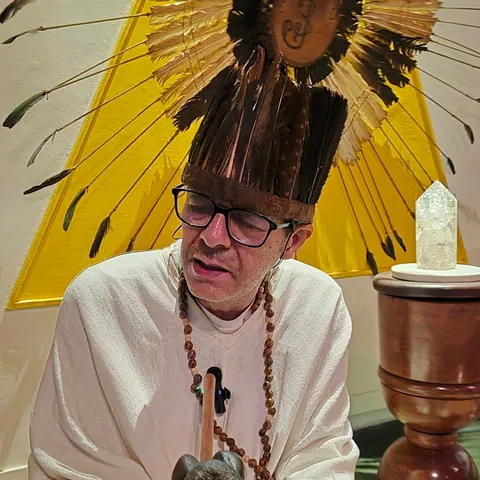
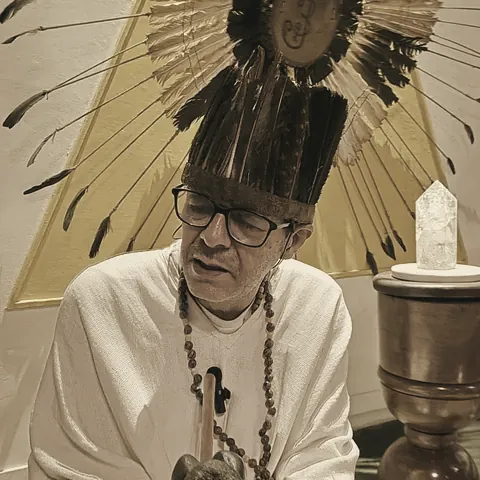
Linktree: mesmo tom quente (duotone) em todas as imagens para dar unidade visual
Claude-Session: https://claude.ai/code/session_01WX8AowRTBoGT7ARiFYNYSN

diff --git a/links/index.html b/links/index.html
@@ -49,9 +49,8 @@ h1{font:500 34px/1.1 var(--serif);letter-spacing:-.01em;margin-top:16px}
 .tile{position:relative;overflow:hidden;border-radius:18px;aspect-ratio:1/1;text-align:left;color:#fff;background:#222;
   display:flex;flex-direction:column;justify-content:flex-end;padding:14px;transition:transform .2s}
 .tile img{position:absolute;inset:0;width:100%;height:100%;object-fit:cover;transition:transform .5s}
-/* mesmo tratamento de cor em todas as fotos, para fotos reais e artes conversarem */
-.tile img,.sheet-h img,.link img{filter:saturate(.8) contrast(1.04) sepia(.1)}
-.tile::before{content:"";position:absolute;inset:0;z-index:1;background:linear-gradient(180deg,rgba(18,30,22,0) 38%,rgba(18,30,22,.88))}
+/* as fotos já saem com o mesmo tom (duotone quente), feito na exportação das imagens */
+.tile::before{content:"";position:absolute;inset:0;z-index:1;background:linear-gradient(180deg,rgba(26,23,18,0) 38%,rgba(26,23,18,.88))}
 .tile>*:not(img){position:relative;z-index:2}
 .tile:hover img{transform:scale(1.04)}
 .tile:active{transform:scale(.98)}
@@ -66,7 +65,7 @@ dialog::backdrop{background:rgba(15,20,16,.55);-webkit-backdrop-filter:blur(3px)
 @keyframes up{from{transform:translateY(40px);opacity:0}}
 .sheet-h{position:relative;height:120px;flex:none;color:#fff;display:flex;align-items:flex-end;padding:16px 18px}
 .sheet-h img{position:absolute;inset:0;width:100%;height:100%;object-fit:cover}
-.sheet-h::before{content:"";position:absolute;inset:0;z-index:1;background:linear-gradient(180deg,rgba(18,30,22,.1),rgba(18,30,22,.82))}
+.sheet-h::before{content:"";position:absolute;inset:0;z-index:1;background:linear-gradient(180deg,rgba(26,23,18,.1),rgba(26,23,18,.82))}
 .sheet-h h3{position:relative;z-index:2;font:500 28px/1 var(--serif)}
 .sheet-h::after{content:"";position:absolute;z-index:2;top:8px;left:50%;transform:translateX(-50%);width:40px;height:4px;border-radius:4px;background:rgba(255,255,255,.7)}
 .close{position:absolute;z-index:3;top:12px;right:12px;width:34px;height:34px;border-radius:50%;display:grid;place-items:center;background:rgba(0,0,0,.35);color:#fff}
@@ -85,7 +84,7 @@ a.link:hover{transform:translateY(-1px);box-shadow:0 10px 24px -14px rgba(28,33,
 .link.soon .chev{font:700 10px/1 var(--sans);letter-spacing:.08em;text-transform:uppercase}
 
 /* WhatsApp: ícone oficial no lugar da foto */
-.tile.wa,.sheet-h.wa{background:radial-gradient(circle at 50% 38%,#2f5a40,var(--accent) 70%)}
+.tile.wa,.sheet-h.wa{background:radial-gradient(circle at 50% 38%,#5a5040,#2a261f 72%)}
 .sheet-h.wa::before{background:none}
 .wa-logo,.tile>.wa-logo,.sheet-h>.wa-logo{position:absolute;z-index:2;left:50%;top:38%;width:64px;height:64px;padding:14px;border-radius:50%;background:#25d366;transform:translate(-50%,-50%);color:#fff;box-shadow:0 10px 24px -8px rgba(0,0,0,.4)}
 .sheet-h.wa .wa-logo{left:auto;right:70px;top:50%}
@@ -152,7 +151,7 @@ footer{margin-top:30px;text-align:center;font-size:12px;color:var(--ink-3)}
     <button class="tile" data-open="grupo">
       <img src="img/c-grupo.webp" alt="" width="640" height="400">
       <span class="plus"><svg width="16" height="16"><use href="#plus"/></svg></span>
-      <b>Grupo fechado</b><small>Comunidade no WhatsApp</small>
+      <b>Grupo fechado</b><small>Comunidade</small>
     </button>
     <button class="tile" data-open="lives">
       <img src="img/c-lives.webp" alt="" width="480" height="480">
